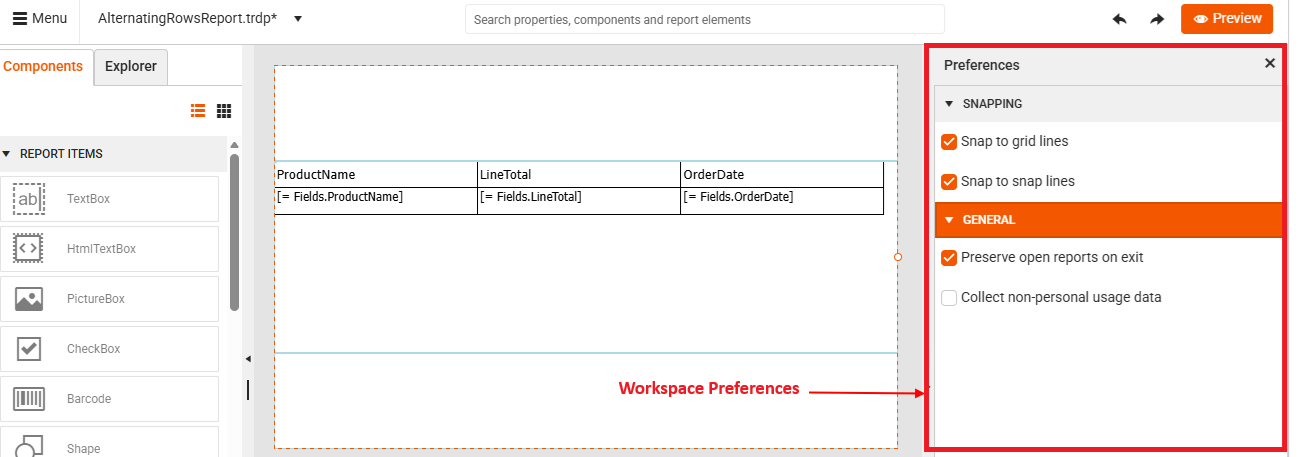
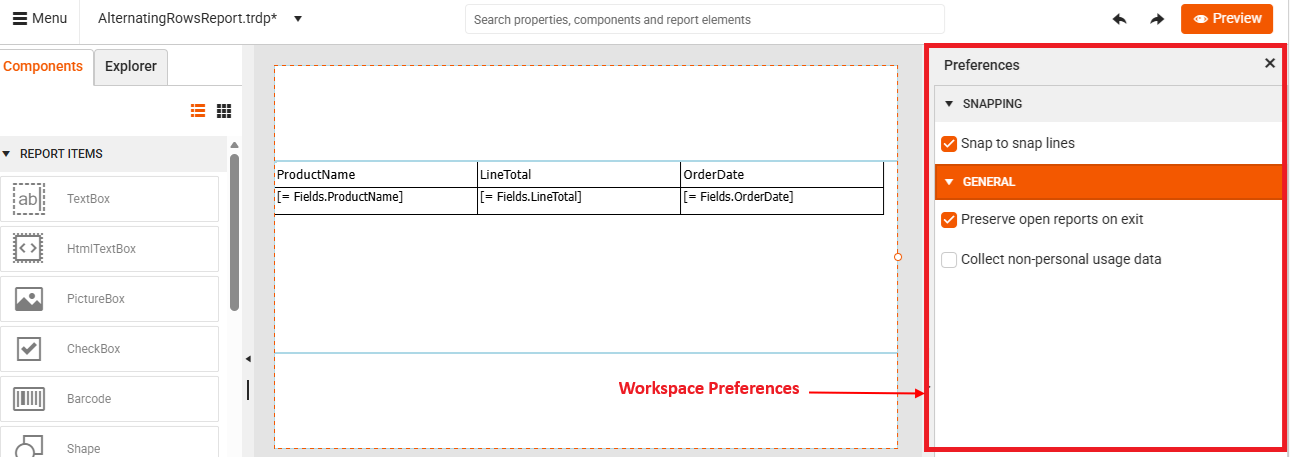
Applied changed to Workspace Preferences
Web Report Designer: "Snap to grid lines" checkbox should be disabled
https://github.com/telerik/reporting/issues/5775

Changed region(s): [[0.7055, 0.2757, 0.9816, 0.5208], [0.7055, 0.5514, 0.8896, 0.5821], [0.7362, 0.6433, 0.8896, 0.674]]

diff --git a/user-guide/workspace-preferences.md b/user-guide/workspace-preferences.md
@@ -30,24 +30,15 @@ The Workspace Preferences are split into two categories:
 
 ## Snapping
 
-Snapping is a feature that detects alignment opportunities while designing the report. You can configure the following snapping options:
-
-* **Snap to grid lines** (*Currently Not Supported*)—When enabled and you move or resize report items (like TextBoxes, Tables, Charts) on the design surface, their edges automatically align to the nearest grid line on the underlying grid system. When disabled, you can freely position items without restrictions.
-
-
-    * Moving an item makes it jump to the nearest grid intersection.
-    * Resizing an item makes its edges align with the grid lines.
-
+Snapping is a feature that detects alignment opportunities while designing the report. You can enable or disable the following snapping option:
 
 * **Snap to snap lines**—Helps you position elements relative to each other (for example, aligning TextBoxes, Charts, or Tables). Snap lines appear temporarily as you drag items and they are based on the edges or centers of nearby items.
 
 <img style="border: 1px solid gray;" src="images/wrd-workspace-preferences-snap-to-snap-lines.gif" alt="Snap to snap lines" /> 
 
-
->tip Snap to grid uses a static grid on the canvas, while snap lines are dynamic and context-sensitive, appearing only when items are close enough.
-
 ## General
 
+The `GENERAL` settings section provides options that control how the application behaves on startup and how it collects usage data to enhance functionality. You can configure the following options:
 
 * **Preserve open reports on exit**—Controls whether the designer remembers which reports were open when you closed the application and automatically restores them at the next launch.
 
